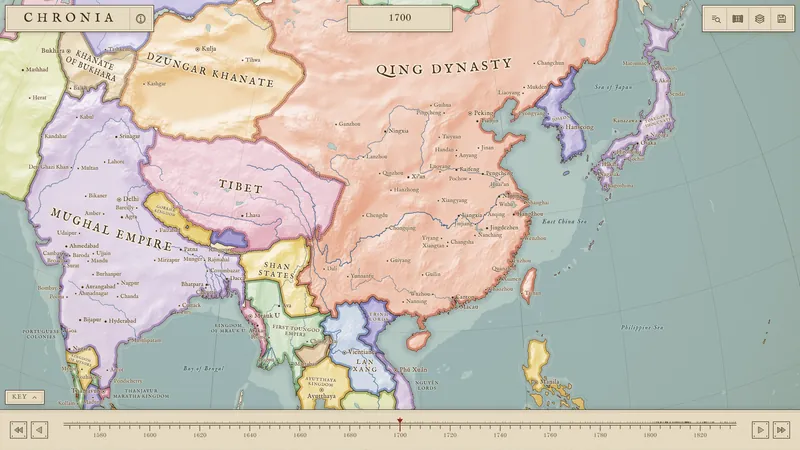
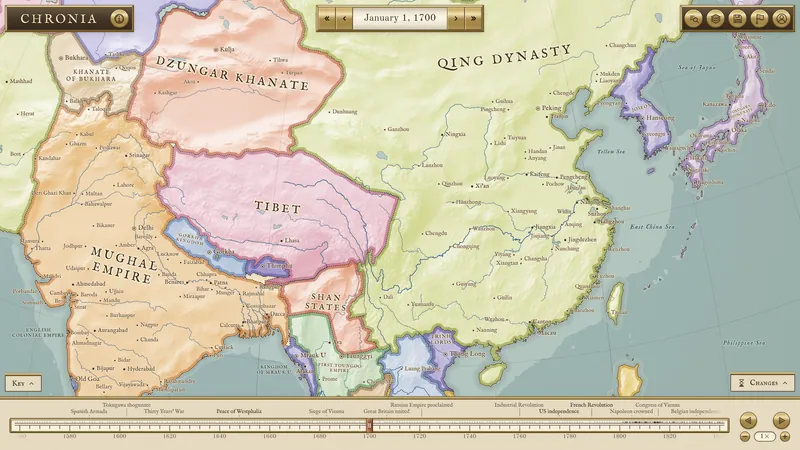
Portfolio: CHRONIA's pictures retaken with the atlas as it looks now
The five slides on the CHRONIA page, the card's thumbnail, and the picture on the portfolio page, at the same dates and framings as before. The June 1918 slide now shows the zones of control, since the wartime occupations moved to that layer, and its caption says so.

Claude-Session: https://claude.ai/code/session_012Avzuihkj455vpXDy6biTG

diff --git a/portfolio/chronia/index.html b/portfolio/chronia/index.html
@@ -31,8 +31,8 @@
           <div class="track" tabindex="0" aria-label="Screenshots; use the arrow keys to move between them">
             <div class="slide" role="group" aria-roledescription="slide" aria-label="1 of 5" data-cap="Europe in June 1812, at the height of Napoleon’s empire"><div class="frame-bar" aria-hidden="true"><span class="dots"><i></i><i></i><i></i></span><span>chroniaatlas.com</span><span></span></div><img src="../../art/web/materials/shot-chronia-1600.webp" srcset="../../art/web/materials/shot-chronia-800.webp 800w, ../../art/web/materials/shot-chronia-1600.webp 1600w, ../../art/web/materials/shot-chronia-2400.webp 2400w" sizes="(max-width: 1200px) 100vw, 1200px" width="1600" height="900" alt="Europe in June 1812, at the height of Napoleon’s empire" fetchpriority="high" decoding="async" /></div>
             <div class="slide" role="group" aria-roledescription="slide" aria-label="2 of 5" data-cap="The Roman Empire in AD 117, drawn with its provinces"><div class="frame-bar" aria-hidden="true"><span class="dots"><i></i><i></i><i></i></span><span>chroniaatlas.com</span><span></span></div><img src="../../art/web/materials/shots/chronia-2-1600.webp" srcset="../../art/web/materials/shots/chronia-2-800.webp 800w, ../../art/web/materials/shots/chronia-2-1600.webp 1600w, ../../art/web/materials/shots/chronia-2-2400.webp 2400w" sizes="(max-width: 1200px) 100vw, 1200px" width="1600" height="900" alt="The Roman Empire in AD 117, drawn with its provinces" loading="lazy" decoding="async" /></div>
-            <div class="slide" role="group" aria-roledescription="slide" aria-label="3 of 5" data-cap="June 1918: Ober Ost, Ukraine, and occupied Romania under the Central Powers"><div class="frame-bar" aria-hidden="true"><span class="dots"><i></i><i></i><i></i></span><span>chroniaatlas.com</span><span></span></div><img src="../../art/web/materials/shots/chronia-3-1600.webp" srcset="../../art/web/materials/shots/chronia-3-800.webp 800w, ../../art/web/materials/shots/chronia-3-1600.webp 1600w, ../../art/web/materials/shots/chronia-3-2400.webp 2400w" sizes="(max-width: 1200px) 100vw, 1200px" width="1600" height="900" alt="Europe in June 1918, with Ober Ost, Ukraine, and occupied Romania under the Central Powers" loading="lazy" decoding="async" /></div>
-            <div class="slide" role="group" aria-roledescription="slide" aria-label="4 of 5" data-cap="The Spanish Civil War in October 1937, in the zones of control"><div class="frame-bar" aria-hidden="true"><span class="dots"><i></i><i></i><i></i></span><span>chroniaatlas.com</span><span></span></div><img src="../../art/web/materials/shots/chronia-4-1600.webp" srcset="../../art/web/materials/shots/chronia-4-800.webp 800w, ../../art/web/materials/shots/chronia-4-1600.webp 1600w, ../../art/web/materials/shots/chronia-4-2400.webp 2400w" sizes="(max-width: 1200px) 100vw, 1200px" width="1600" height="900" alt="Spain in October 1937, hatched by the zones the Republic and the Nationalists held" loading="lazy" decoding="async" /></div>
+            <div class="slide" role="group" aria-roledescription="slide" aria-label="3 of 5" data-cap="June 1918 in the zones of control: the Central Powers’ hold from the Baltic to the Don"><div class="frame-bar" aria-hidden="true"><span class="dots"><i></i><i></i><i></i></span><span>chroniaatlas.com</span><span></span></div><img src="../../art/web/materials/shots/chronia-3-1600.webp" srcset="../../art/web/materials/shots/chronia-3-800.webp 800w, ../../art/web/materials/shots/chronia-3-1600.webp 1600w, ../../art/web/materials/shots/chronia-3-2400.webp 2400w" sizes="(max-width: 1200px) 100vw, 1200px" width="1600" height="900" alt="Europe in June 1918, coloured by the zones of control, with the land the Central Powers held from the Baltic to the Don" loading="lazy" decoding="async" /></div>
+            <div class="slide" role="group" aria-roledescription="slide" aria-label="4 of 5" data-cap="The Spanish Civil War in October 1937, in the zones of control"><div class="frame-bar" aria-hidden="true"><span class="dots"><i></i><i></i><i></i></span><span>chroniaatlas.com</span><span></span></div><img src="../../art/web/materials/shots/chronia-4-1600.webp" srcset="../../art/web/materials/shots/chronia-4-800.webp 800w, ../../art/web/materials/shots/chronia-4-1600.webp 1600w, ../../art/web/materials/shots/chronia-4-2400.webp 2400w" sizes="(max-width: 1200px) 100vw, 1200px" width="1600" height="900" alt="Spain in October 1937, coloured by the zones the Republic and the Nationalists held" loading="lazy" decoding="async" /></div>
             <div class="slide" role="group" aria-roledescription="slide" aria-label="5 of 5" data-cap="East and South Asia in 1700, from the Qing to the Mughals"><div class="frame-bar" aria-hidden="true"><span class="dots"><i></i><i></i><i></i></span><span>chroniaatlas.com</span><span></span></div><img src="../../art/web/materials/shots/chronia-5-1600.webp" srcset="../../art/web/materials/shots/chronia-5-800.webp 800w, ../../art/web/materials/shots/chronia-5-1600.webp 1600w, ../../art/web/materials/shots/chronia-5-2400.webp 2400w" sizes="(max-width: 1200px) 100vw, 1200px" width="1600" height="900" alt="East and South Asia in 1700, from the Qing to the Mughals" loading="lazy" decoding="async" /></div>
           </div>
         </div>
